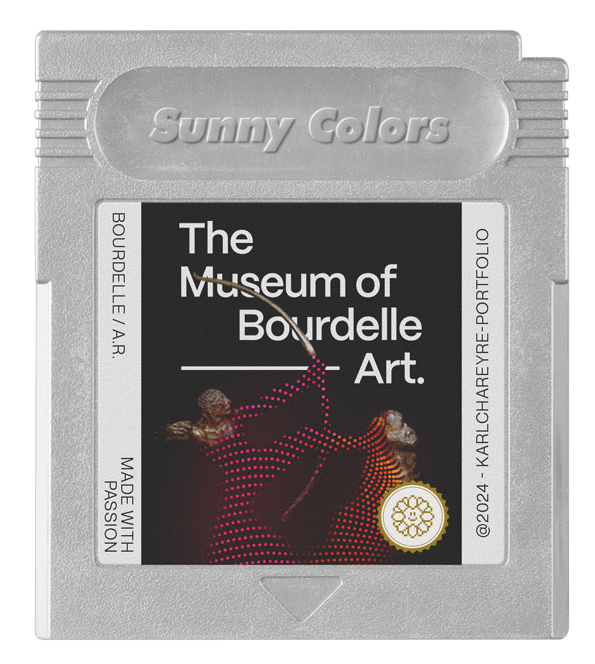
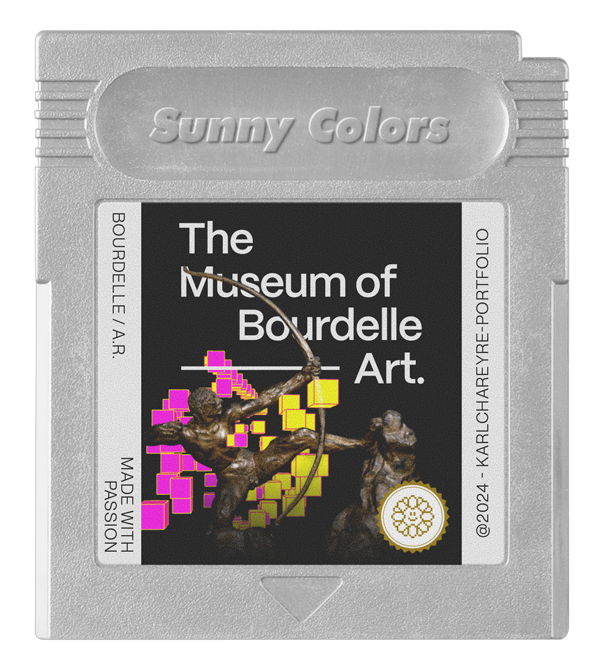
Add Bourdelle

Changed region(s): [[0.2118, 0.4819, 0.6958, 0.8735], [0.3025, 0.3916, 0.4538, 0.4518], [0.4538, 0.4518, 0.484, 0.4819]]

diff --git a/data/projects.js b/data/projects.js
@@ -5,16 +5,16 @@ export const projects = [
     title: "Capsule",
     tags: [{
       research: "brainstorming, architecture, user stories",
-      design: "ux writing, visual identity, UI kit, layout, prototype",
+      design: "ux writing, Identité visuelle, UI kit, layout, prototype",
     }],
     description: "Réalisation d’une formation sur l'utilisation des composants et des kits d'interface utilisateur, aidant les participants à maîtriser les bases de Figma. L’objectif de cet atelier était de renforcer leur expertise en intégrant des connaissances pour la conception de leurs projets.",
-    category: "App Education",
+    category: "Éducation",
     cartouche: require('../assets/images/laCapsule/LaCapsule_Cartouche.png'),
     bgColor: '#7D2CCE',
     imgBackground: require('../assets/images/laCapsule/bgImage.png'),
-    button1: 'Voir prototype',
+    button1: 'Jouer avec le Prototype',
     button1Icon: 'PlayCircleFilledWhiteOutlinedIcon',
-    button2: 'Voir le projet',
+    button2: 'Voir le fichier',
     button2Icon: 'LanguageOutlinedIcon',
     url1: 'https://www.figma.com/proto/S7R5gemqnM6OwIHpwaMvZD/Getting-started-with-Figma-%40LaCapsule?page-id=4%3A50&type=design&node-id=128-1719&viewport=-534%2C215%2C0.19&t=Uw6jRM2K0qBsVxVv-1&scaling=scale-down&starting-point-node-id=128%3A1719&mode=design',
     url2: 'https://www.figma.com/community/file/1342654436378351302/getting-started-with-figma-lacapsule',
@@ -31,23 +31,28 @@ export const projects = [
     number: "Projet n°02",
     title: "Bourdelle",
     tags: [{
-      research: "mapping, interview, user journey, ideation",
-      design: "ux writing, visual identity, layout, prototype",
+      research: "mapping, interview, user journey, idéation",
+      design: "ux writing, identité visuelle, layout, prototype",
     }],
-    description: "AR Bourdelle aims to enhance the museum experience by allowing visitors to explore Bourdelle's sculptures interactively and immersively through augmented reality. The goal was to make classical art more accessible and engaging, providing an educational and entertaining experience that sparks curiosity and appreciation for cultural heritage.",
-    category: "Augmented reality",
+    description: "AR Bourdelle vise à améliorer l'expérience muséale en permettant aux visiteurs d'explorer de manière interactive et immersive les sculptures de Bourdelle grâce à la réalité augmentée. L'objectif était de rendre l'art classique plus accessible et captivant, en offrant une expérience éducative et divertissante qui suscite la curiosité et l'appréciation du patrimoine culturel.",
+    category: "Réalité Augmenté",
     cartouche: require('../assets/images/bourdelle/Bourdelle_Cartouche.png'),
     bgColor: '#0B0B0B',
     imgBackground: require('../assets/images/bourdelle/bgImage.png'),
-    button1: 'Play Prototype',
+    button1: 'Jouer avec le Prototype',
     button1Icon: 'PlayCircleFilledWhiteOutlinedIcon',
-    button2: 'Read Case Study',
+    button2: 'Lire le Case Study',
     button2Icon: 'PictureAsPdfOutlinedIcon',
-    url2:  '',
+    url1: 'https://www.figma.com/proto/5fBEdgtipWULuuEviKfplS/%230010---Mus%C3%A9e-Bourdelle?page-id=101%3A172&type=design&node-id=570-4766&viewport=1296%2C780%2C0.25&t=qO116izHyaZdhBw1-1&scaling=min-zoom&starting-point-node-id=570%3A4766&mode=design',
+    url2:  'https://drive.google.com/file/d/19ivt6jk0wFc2xxTM2LZISkZ6CXk0JaM9/view?usp=sharing',
     images: [
-      require('../assets/images/bourdelle/MOAB - Recherche.png'),
-      require('../assets/images/bourdelle/MOAB - Intro.png'),
-      require('../assets/images/bourdelle/MOAB - Identité.png'),
+      require('../assets/images/bourdelle/bourdelle01.png'),
+      require('../assets/images/bourdelle/bourdelle02.png'),
+      require('../assets/images/bourdelle/bourdelle03.png'),
+      require('../assets/images/bourdelle/bourdelle04.png'),
+      require('../assets/images/bourdelle/bourdelle05.png'),
+      require('../assets/images/bourdelle/bourdelle06.png'),
+      require('../assets/images/bourdelle/bourdelle07.png'),
     ]
   },
 ];

diff --git a/components/Footer.js b/components/Footer.js
@@ -38,7 +38,7 @@ export default function Footer() {
             <p className={ds.bodySmall}>@2024 - Karl chareyre Portfolio</p>
             <div className={ds.container}>
                 <SportsBasketballIcon className={ds.buttonIcon} onClick={() => handleNavigationDribbble()} />
-                <InstagramIcon className={ds.buttonIcon} onClick={() => handleNavigationInstagram()} />
+                {/* <InstagramIcon className={ds.buttonIcon} onClick={() => handleNavigationInstagram()} /> */}
                 <GitHubIcon className={ds.buttonIcon} onClick={() => handleNavigationGitHub()} />
                 <LinkedInIcon className={ds.buttonIcon} onClick={() => handleNavigationLinkedin()} />
             </div>

diff --git a/styles/Home.module.css b/styles/Home.module.css
@@ -105,7 +105,6 @@
   font-weight: 500;
   line-height: 150%;
   font-family: "PP Neue Montreal", sans-serif;
-  text-transform: capitalize;
 }
 
 .buttonTxtSecondary {
@@ -219,6 +218,7 @@
 .buttonBack {
   cursor: pointer;
   margin: 0;
+  position: absolute;
   display: flex;
   justify-content: center;
   align-items: center;

diff --git a/styles/DesignSystem.module.css b/styles/DesignSystem.module.css
@@ -105,7 +105,6 @@
   font-weight: 500;
   line-height: 150%;
   font-family: "PP Neue Montreal", sans-serif;
-  text-transform: capitalize;
 }
 
 .buttonTxtSecondary {

diff --git a/styles/Project.module.css b/styles/Project.module.css
@@ -105,7 +105,6 @@
   font-weight: 500;
   line-height: 150%;
   font-family: "PP Neue Montreal", sans-serif;
-  text-transform: capitalize;
 }
 
 .buttonTxtSecondary {
